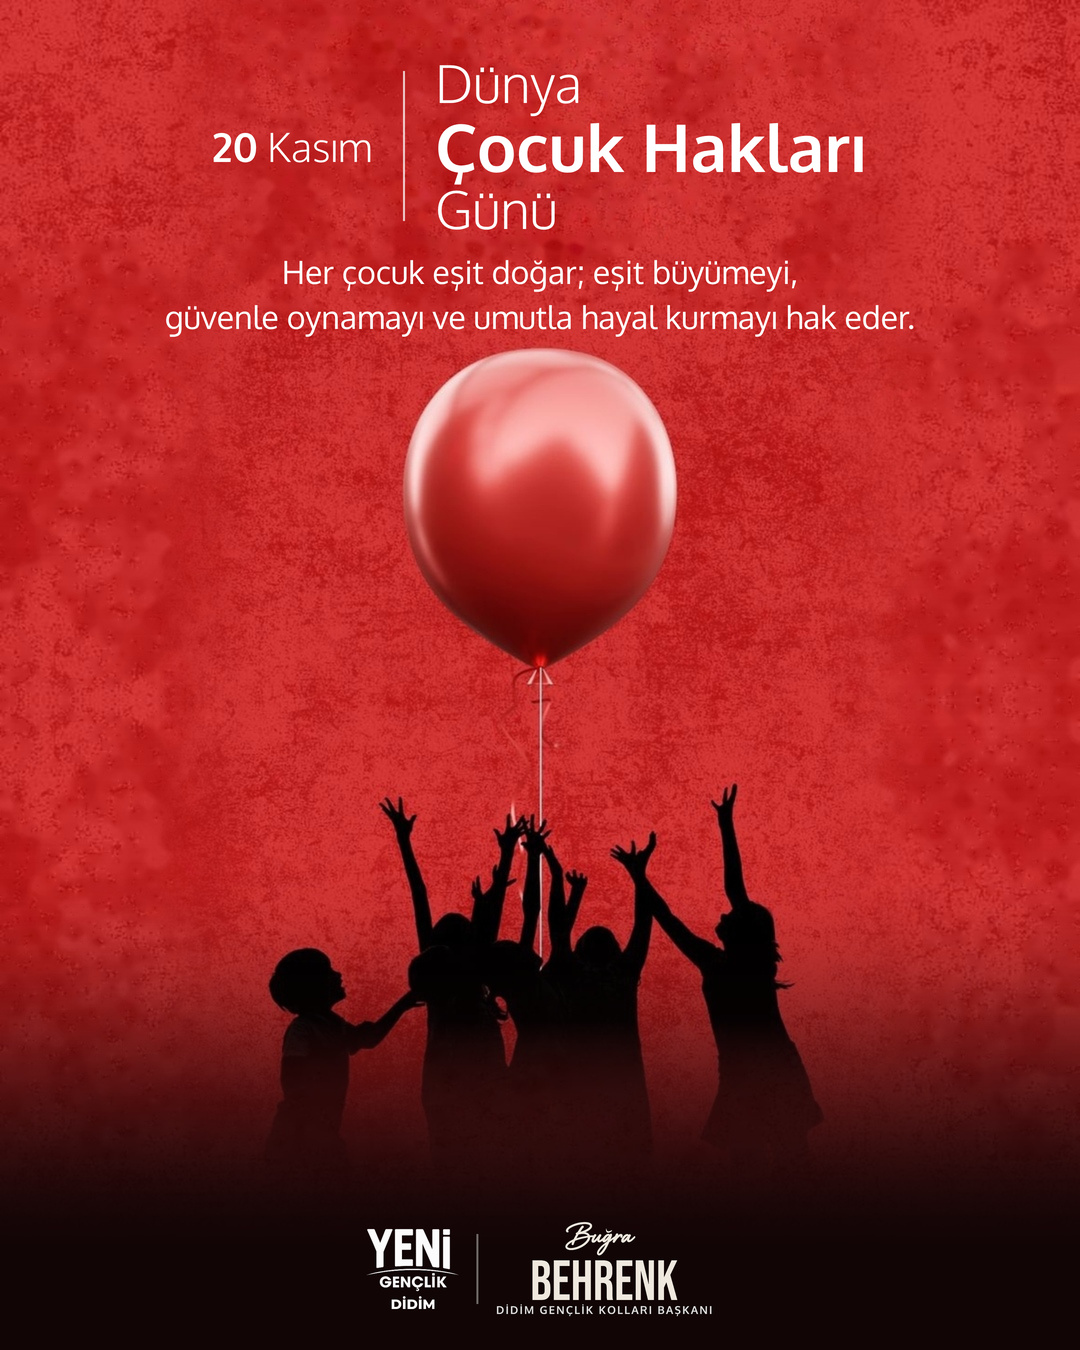
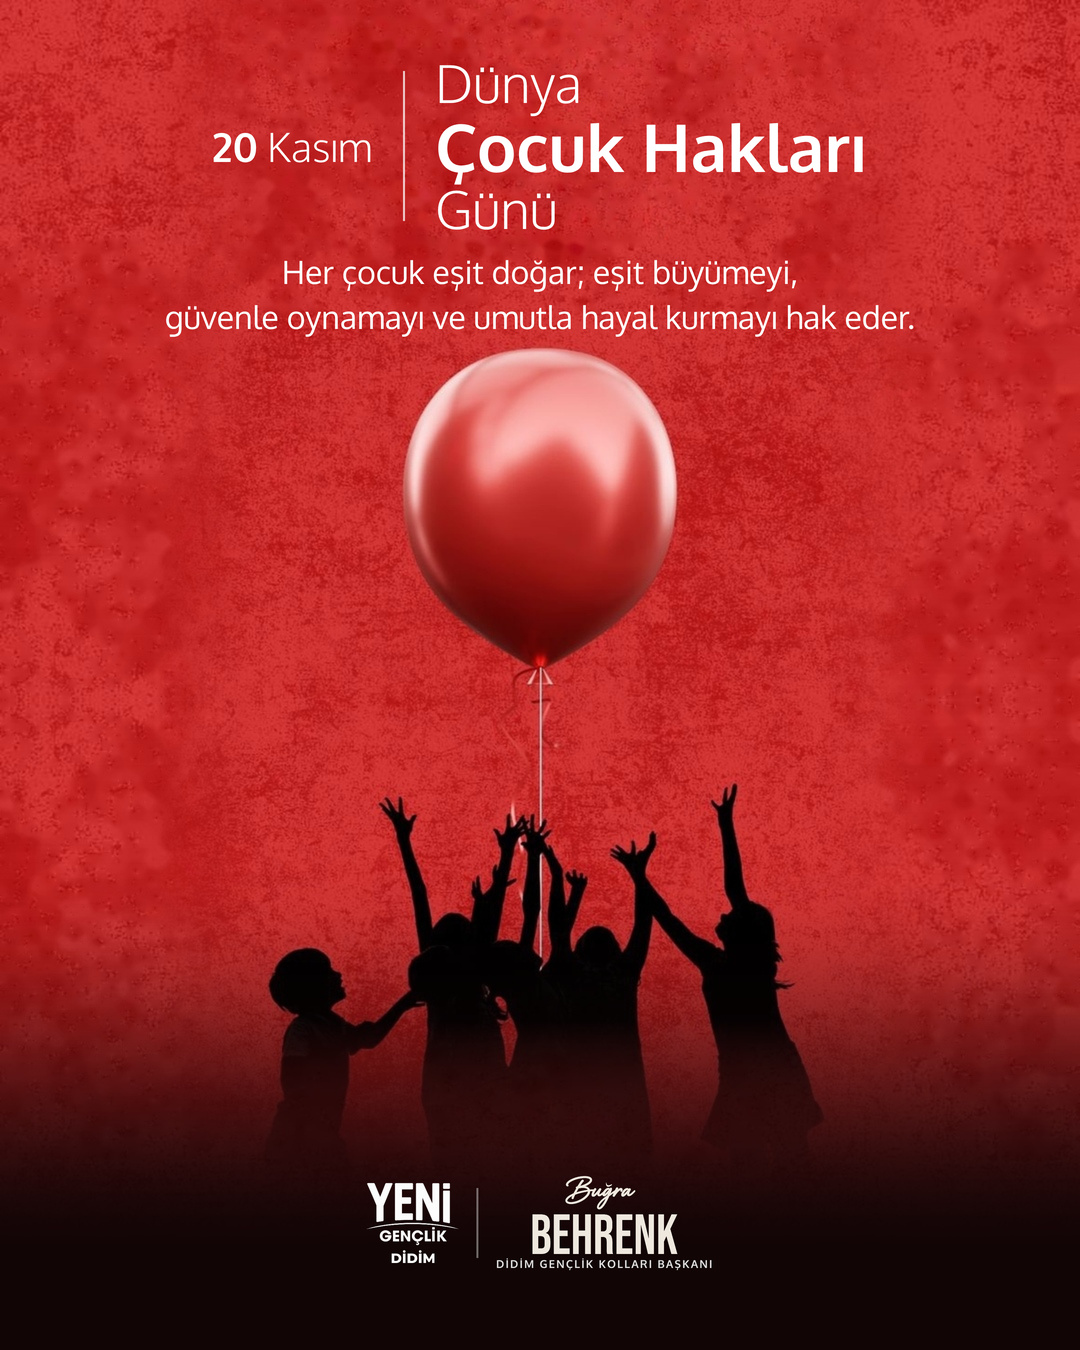
Çocuk Hakları post: imzanın altına boşluk
Claude-Session: https://claude.ai/code/session_01SatttGbgBLoCnk9KGLypWv

Changed region(s): [[0.4583, 0.8711, 0.6417, 0.9956], [0.3361, 0.8711, 0.4278, 0.9956]]

diff --git a/tasarim/kisisel/cocuk-haklari/post.html b/tasarim/kisisel/cocuk-haklari/post.html
@@ -13,7 +13,7 @@ html,body{margin:0;width:1080px;height:1350px;overflow:hidden;color:#fff;font-fa
 .ay{width:2px;height:150px;background:rgba(255,255,255,.75)}
 .bas{font:300 52px/1.05 Ox}.bas b{display:block;font:700 66px/1.08 Ox}
 .alt{position:absolute;left:120px;right:120px;top:250px;text-align:center;font:400 32px/1.4 Ox}
-.imza{position:absolute;left:50%;transform:translateX(-50%);bottom:34px;display:flex;align-items:center;gap:18px}.imza .l{height:80px}.imza .a{width:1.5px;height:70px;background:rgba(255,255,255,.4)}.imza .d{display:flex;flex-direction:column;align-items:center}.imza .i{height:78px}.imza .u{font:700 11px/1 Ox;letter-spacing:.12em;margin-top:5px;color:#ddd}</style><body>
+.imza{position:absolute;left:50%;transform:translateX(-50%);bottom:80px;display:flex;align-items:center;gap:18px}.imza .l{height:80px}.imza .a{width:1.5px;height:70px;background:rgba(255,255,255,.4)}.imza .d{display:flex;flex-direction:column;align-items:center}.imza .i{height:78px}.imza .u{font:700 11px/1 Ox;letter-spacing:.12em;margin-top:5px;color:#ddd}</style><body>
 <img class="z" src="zemin-post.jpg">
 
 <div class="ust"><div class="tarih"><b>20</b> Kasım</div><span class="ay"></span><div class="bas">Dünya<b>Çocuk Hakları</b>Günü</div></div>
